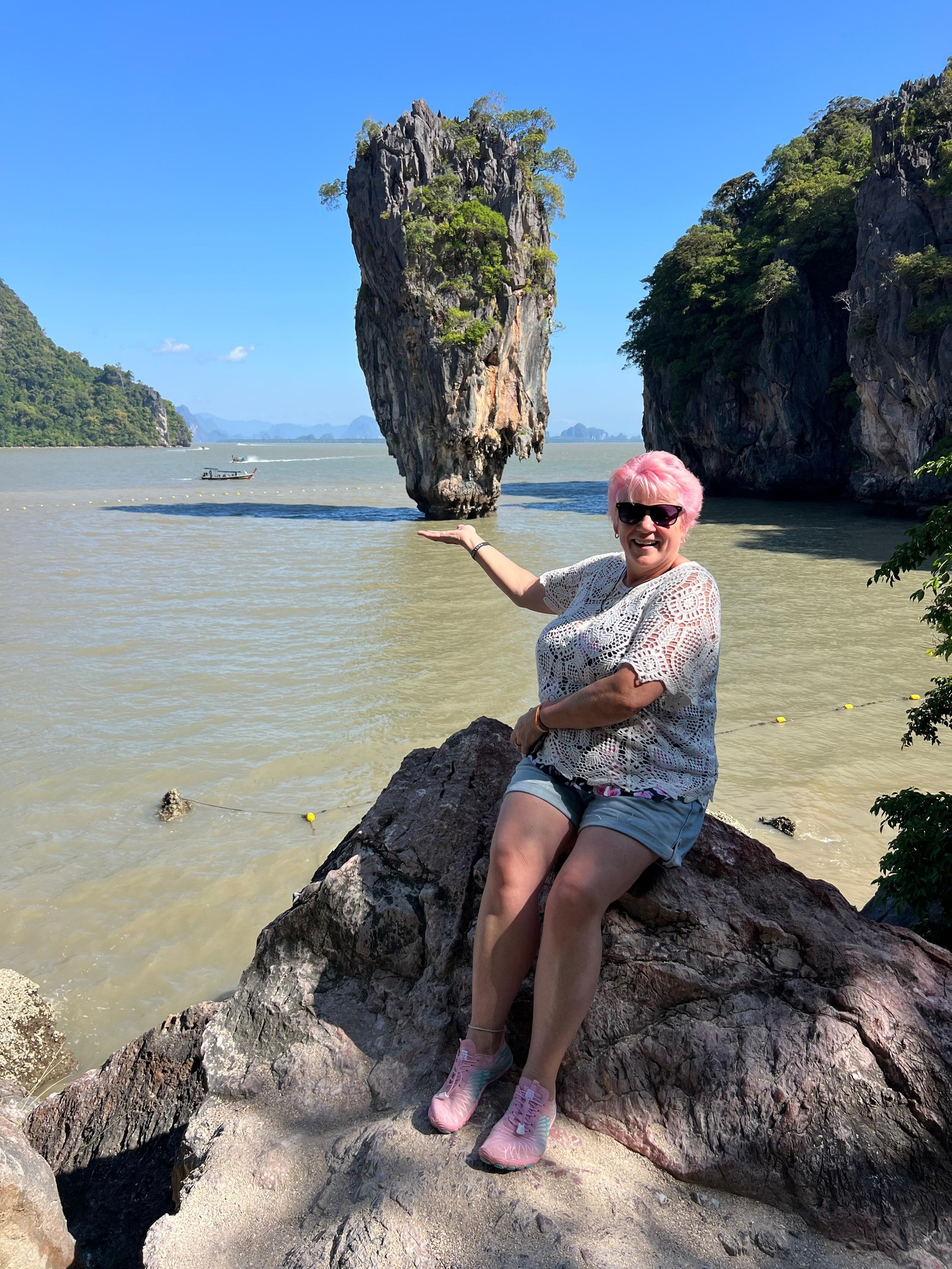
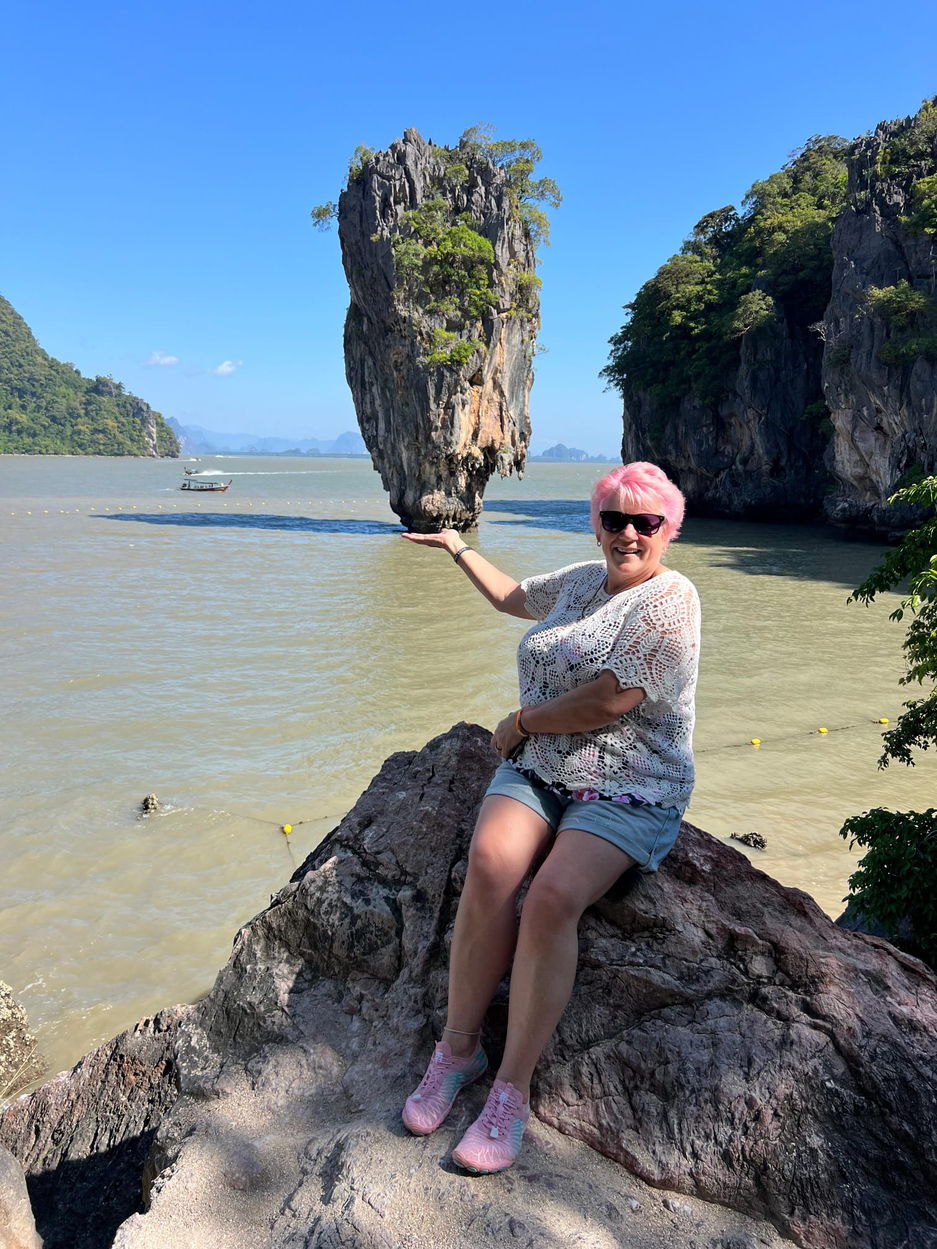
Update typography and page background

diff --git a/styles.css b/styles.css
@@ -27,14 +27,26 @@ html {
 }
 
 body {
+  min-height: 100vh;
   margin: 0;
   color: var(--color-ink);
-  font-family: "Nunito Sans", system-ui, -apple-system, BlinkMacSystemFont, "Segoe UI", sans-serif;
+  font-family: "DM Sans", system-ui, -apple-system, BlinkMacSystemFont, "Segoe UI", sans-serif;
   line-height: 1.65;
-  background:
-    radial-gradient(circle at 12% 0%, rgba(201, 187, 215, 0.28), transparent 30rem),
-    radial-gradient(circle at 88% 18%, rgba(223, 170, 145, 0.18), transparent 27rem),
-    linear-gradient(135deg, #fff8ed 0%, #f7ead9 54%, #f1eaf5 100%);
+  background: #f5f5f5;
+  isolation: isolate;
+}
+
+#site-fog-background {
+  position: fixed;
+  inset: 0;
+  z-index: 0;
+  overflow: hidden;
+  pointer-events: none;
+}
+
+body > :not(#site-fog-background) {
+  position: relative;
+  z-index: 1;
 }
 
 img {
@@ -74,7 +86,7 @@ textarea {
   align-items: center;
   gap: 0.65rem;
   color: var(--color-plum);
-  font-family: "Fraunces", Georgia, serif;
+  font-family: "Cormorant Garamond", Georgia, serif;
   font-size: clamp(1.15rem, 2vw, 1.45rem);
   font-weight: 700;
   letter-spacing: 0;
@@ -252,7 +264,7 @@ textarea {
 .booking-enquiry__title {
   margin: 0;
   color: var(--color-plum);
-  font-family: "Fraunces", Georgia, serif;
+  font-family: "Cormorant Garamond", Georgia, serif;
   font-weight: 600;
   line-height: 1.02;
   letter-spacing: 0;
@@ -267,6 +279,7 @@ textarea {
   max-width: 34rem;
   margin: 1.2rem 0 0;
   color: var(--color-gold);
+  font-family: "Cormorant Garamond", Georgia, serif;
   font-size: clamp(1.1rem, 2vw, 1.38rem);
   font-weight: 800;
   line-height: 1.35;
@@ -364,7 +377,7 @@ textarea {
 .welcome-note__text {
   margin: 0;
   color: var(--color-plum);
-  font-family: "Fraunces", Georgia, serif;
+  font-family: "Cormorant Garamond", Georgia, serif;
   font-size: clamp(1.25rem, 3vw, 1.75rem);
   line-height: 1.25;
   text-align: center;
@@ -441,7 +454,7 @@ textarea {
 .pricing-card__title {
   margin: 0;
   color: var(--color-plum);
-  font-family: "Fraunces", Georgia, serif;
+  font-family: "Cormorant Garamond", Georgia, serif;
   font-size: clamp(1.35rem, 3vw, 1.75rem);
   line-height: 1.1;
 }
@@ -449,7 +462,7 @@ textarea {
 .pricing-card__price {
   margin: 0.85rem 0;
   color: var(--color-deep-sage);
-  font-family: "Fraunces", Georgia, serif;
+  font-family: "Cormorant Garamond", Georgia, serif;
   font-size: clamp(1.7rem, 4vw, 2.35rem);
   font-weight: 700;
   line-height: 1;
@@ -495,7 +508,7 @@ textarea {
 
 .about-lynn__lead {
   color: var(--color-ink);
-  font-family: "Fraunces", Georgia, serif;
+  font-family: "Cormorant Garamond", Georgia, serif;
   font-size: clamp(1.45rem, 3vw, 2rem);
   line-height: 1.25;
 }
@@ -519,7 +532,7 @@ textarea {
 .about-lynn__experience-item strong {
   display: block;
   color: var(--color-plum);
-  font-family: "Fraunces", Georgia, serif;
+  font-family: "Cormorant Garamond", Georgia, serif;
   font-size: clamp(1.75rem, 4vw, 2.2rem);
   line-height: 1;
 }
@@ -582,7 +595,7 @@ textarea {
 .service-card__title {
   margin: 0;
   color: var(--color-plum);
-  font-family: "Fraunces", Georgia, serif;
+  font-family: "Cormorant Garamond", Georgia, serif;
   font-size: clamp(1.75rem, 4vw, 2.35rem);
   font-weight: 600;
   line-height: 1.08;
@@ -634,7 +647,7 @@ textarea {
 .service-card__details-title {
   margin: 0 0 0.65rem;
   color: var(--color-plum);
-  font-family: "Fraunces", Georgia, serif;
+  font-family: "Cormorant Garamond", Georgia, serif;
   font-size: 1.2rem;
   line-height: 1.2;
 }
@@ -763,7 +776,7 @@ textarea {
 .testimonial-card p {
   margin: 0;
   color: var(--color-plum);
-  font-family: "Fraunces", Georgia, serif;
+  font-family: "Cormorant Garamond", Georgia, serif;
   font-size: clamp(1.2rem, 2.2vw, 1.42rem);
   line-height: 1.35;
 }

diff --git a/index.html b/index.html
@@ -12,12 +12,13 @@
     <link rel="preconnect" href="https://fonts.googleapis.com" />
     <link rel="preconnect" href="https://fonts.gstatic.com" crossorigin />
     <link
-      href="https://fonts.googleapis.com/css2?family=Fraunces:opsz,wght@9..144,500;9..144,600;9..144,700&family=Nunito+Sans:wght@400;500;600;700;800&display=swap"
+      href="https://fonts.googleapis.com/css2?family=DM+Sans:ital,opsz,wght@0,9..40,100..1000;1,9..40,100..1000&family=Cormorant+Garamond:ital,wght@0,300;0,400;0,500;0,600;0,700;1,400;1,500;1,600;1,700&family=Montserrat:ital,wght@0,100..900;1,100..900&display=swap"
       rel="stylesheet"
     />
     <link rel="stylesheet" href="styles.css" />
   </head>
   <body>
+    <div id="site-fog-background" aria-hidden="true"></div>
     <header class="site-header">
       <a class="site-header__brand" href="#home" aria-label="Rapid Reset Studio home">
         <img class="site-header__logo" src="images/header-logo.png" alt="Rapid Reset Studio" />
@@ -393,6 +394,11 @@
           </div>
         </div>
         <div class="site-footer__links" aria-label="Footer links">
+          <a class="site-footer__icon-link" href="tel:07538944141" aria-label="Call Rapid Reset Studio on 07538944141">
+            <svg viewBox="0 0 24 24" aria-hidden="true">
+              <path d="M6.6 2.8 9.8 6c.7.7.8 1.8.2 2.6l-1.3 1.8a12.1 12.1 0 0 0 4.9 4.9l1.8-1.3c.8-.6 1.9-.5 2.6.2l3.2 3.2c.6.6.7 1.6.2 2.3-.8 1.2-2.1 2.3-3.7 2.3C9.1 22 2 14.9 2 6.3c0-1.6 1.1-2.9 2.3-3.7.7-.5 1.7-.4 2.3.2Z" />
+            </svg>
+          </a>
           <a class="site-footer__icon-link" href="mailto:hello@rapidresetstudio.com" aria-label="Email Rapid Reset Studio">
             <svg viewBox="0 0 24 24" aria-hidden="true">
               <path d="M4 5h16a2 2 0 0 1 2 2v10a2 2 0 0 1-2 2H4a2 2 0 0 1-2-2V7a2 2 0 0 1 2-2Zm0 3.2 8 5.1 8-5.1V7l-8 5.1L4 7v1.2Z" />
@@ -416,6 +422,8 @@
       </p>
     </footer>
 
+    <script src="https://cdnjs.cloudflare.com/ajax/libs/three.js/r134/three.min.js"></script>
+    <script src="https://cdn.jsdelivr.net/npm/vanta@0.5.24/dist/vanta.fog.min.js"></script>
     <script src="script.js"></script>
   </body>
 </html>

diff --git a/script.js b/script.js
@@ -5,6 +5,22 @@ const enquiryForm = document.querySelector(".booking-enquiry__form");
 const enquiryStatus = document.querySelector(".booking-enquiry__status");
 const placeholderImages = document.querySelectorAll("img[data-placeholder]");
 const serviceDetailsToggles = document.querySelectorAll(".service-card__details-toggle");
+const fogBackground = document.querySelector("#site-fog-background");
+
+if (fogBackground && window.VANTA && window.VANTA.FOG) {
+  window.VANTA.FOG({
+    el: fogBackground,
+    mouseControls: true,
+    touchControls: true,
+    gyroControls: false,
+    minHeight: 200.0,
+    minWidth: 200.0,
+    highlightColor: 0xdecfc0,
+    midtoneColor: 0xe6e6e6,
+    lowlightColor: 0xdbd9e3,
+    baseColor: 0xf5f5f5,
+  });
+}
 
 const createPlaceholderSvg = (label) => {
   const safeLabel = label.replace(/[&<>"']/g, (character) => {
